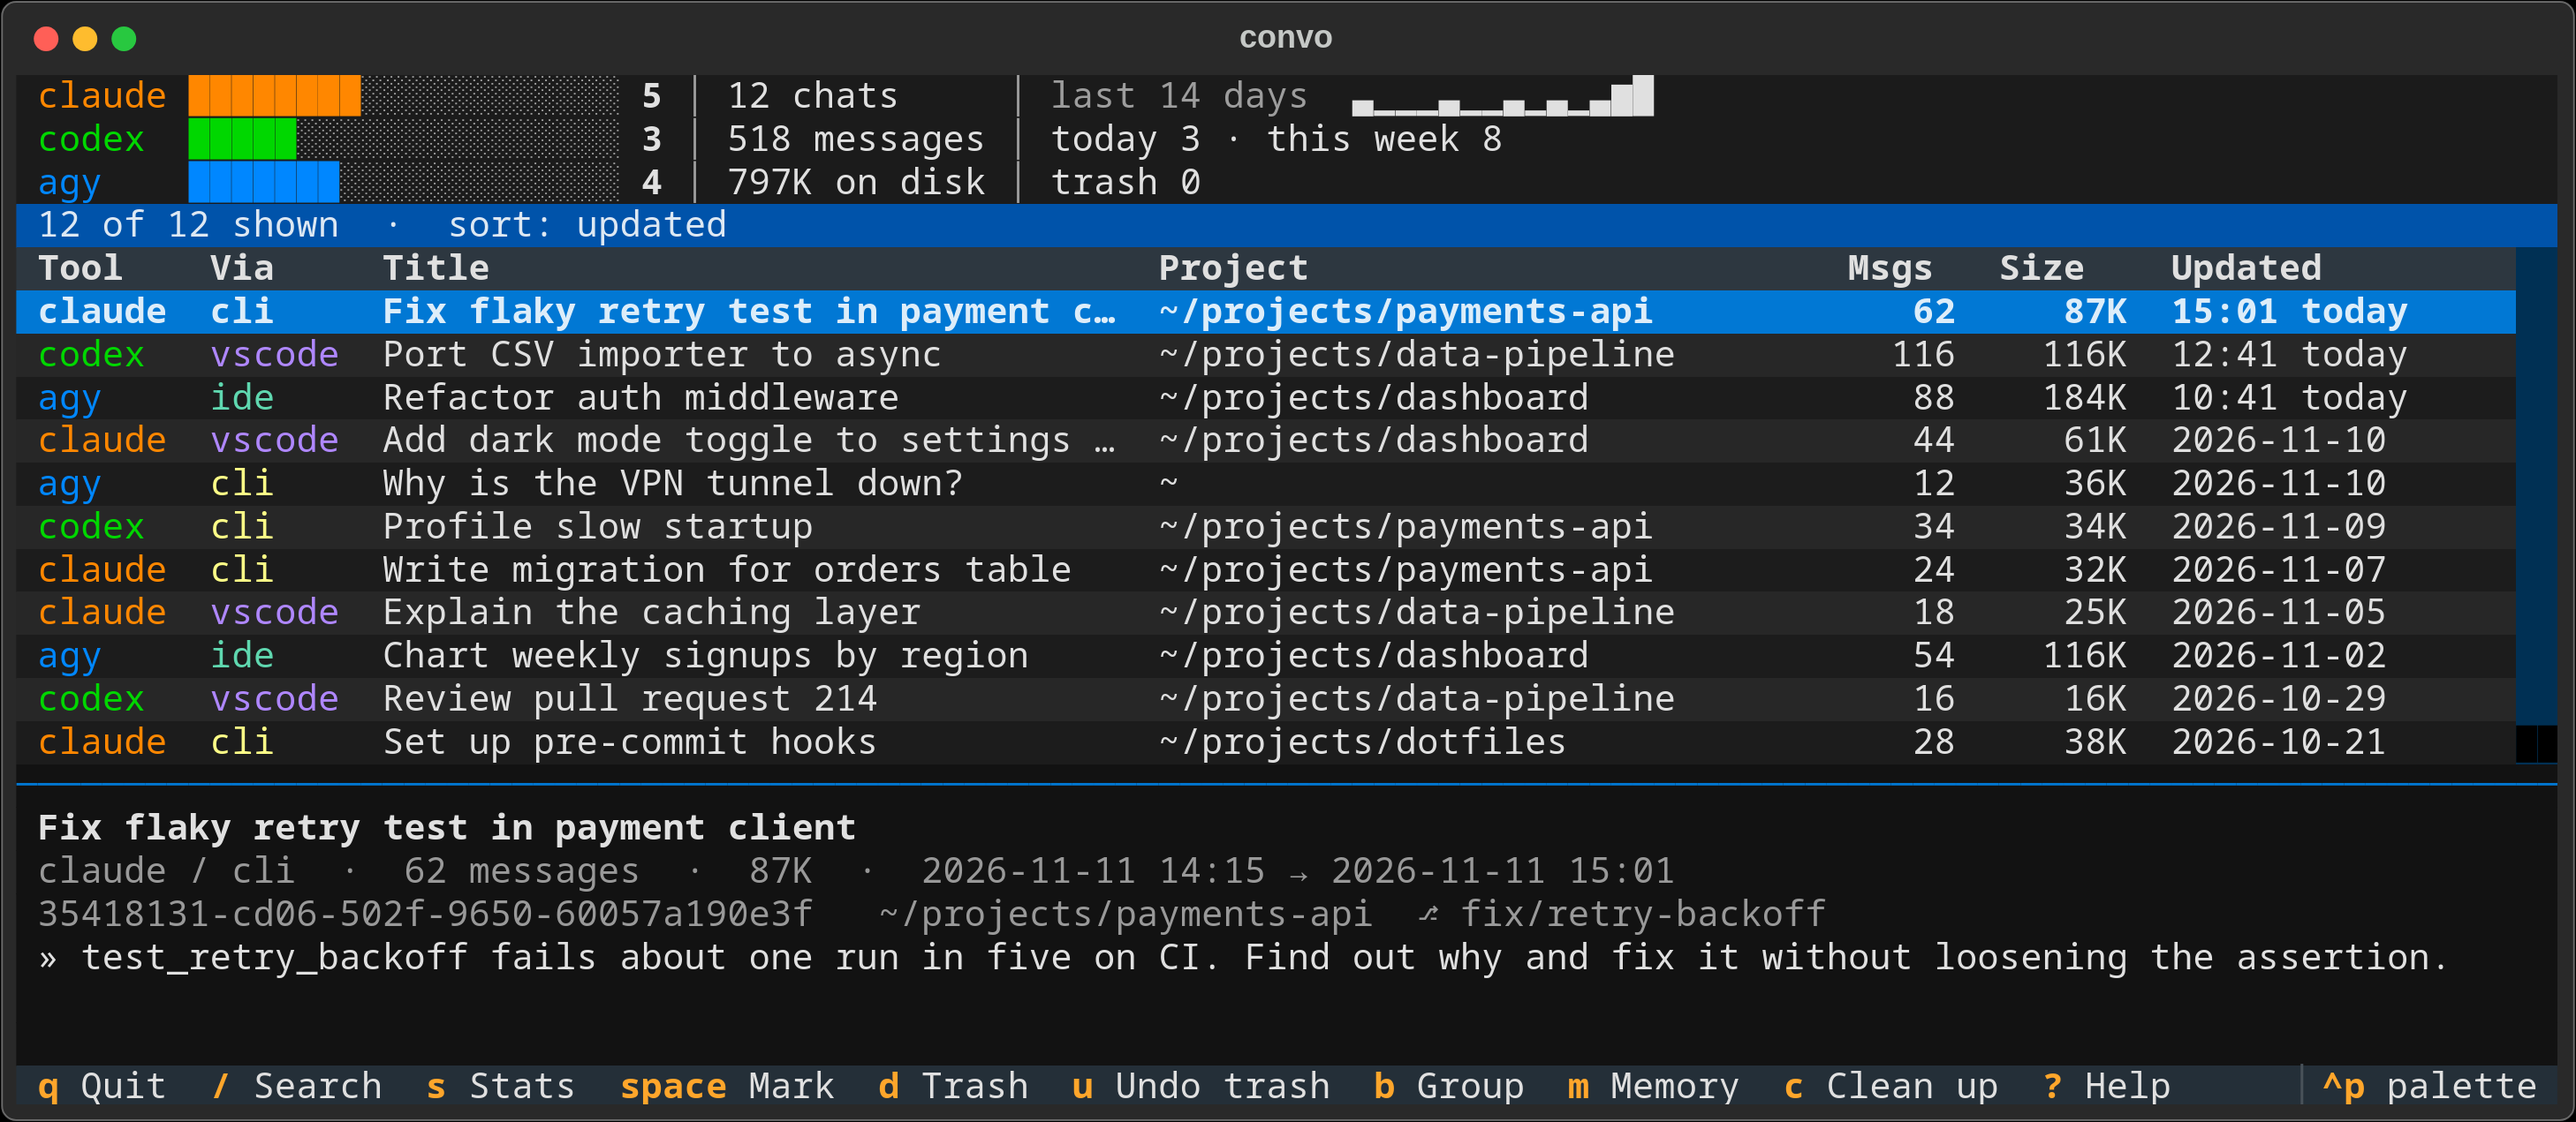
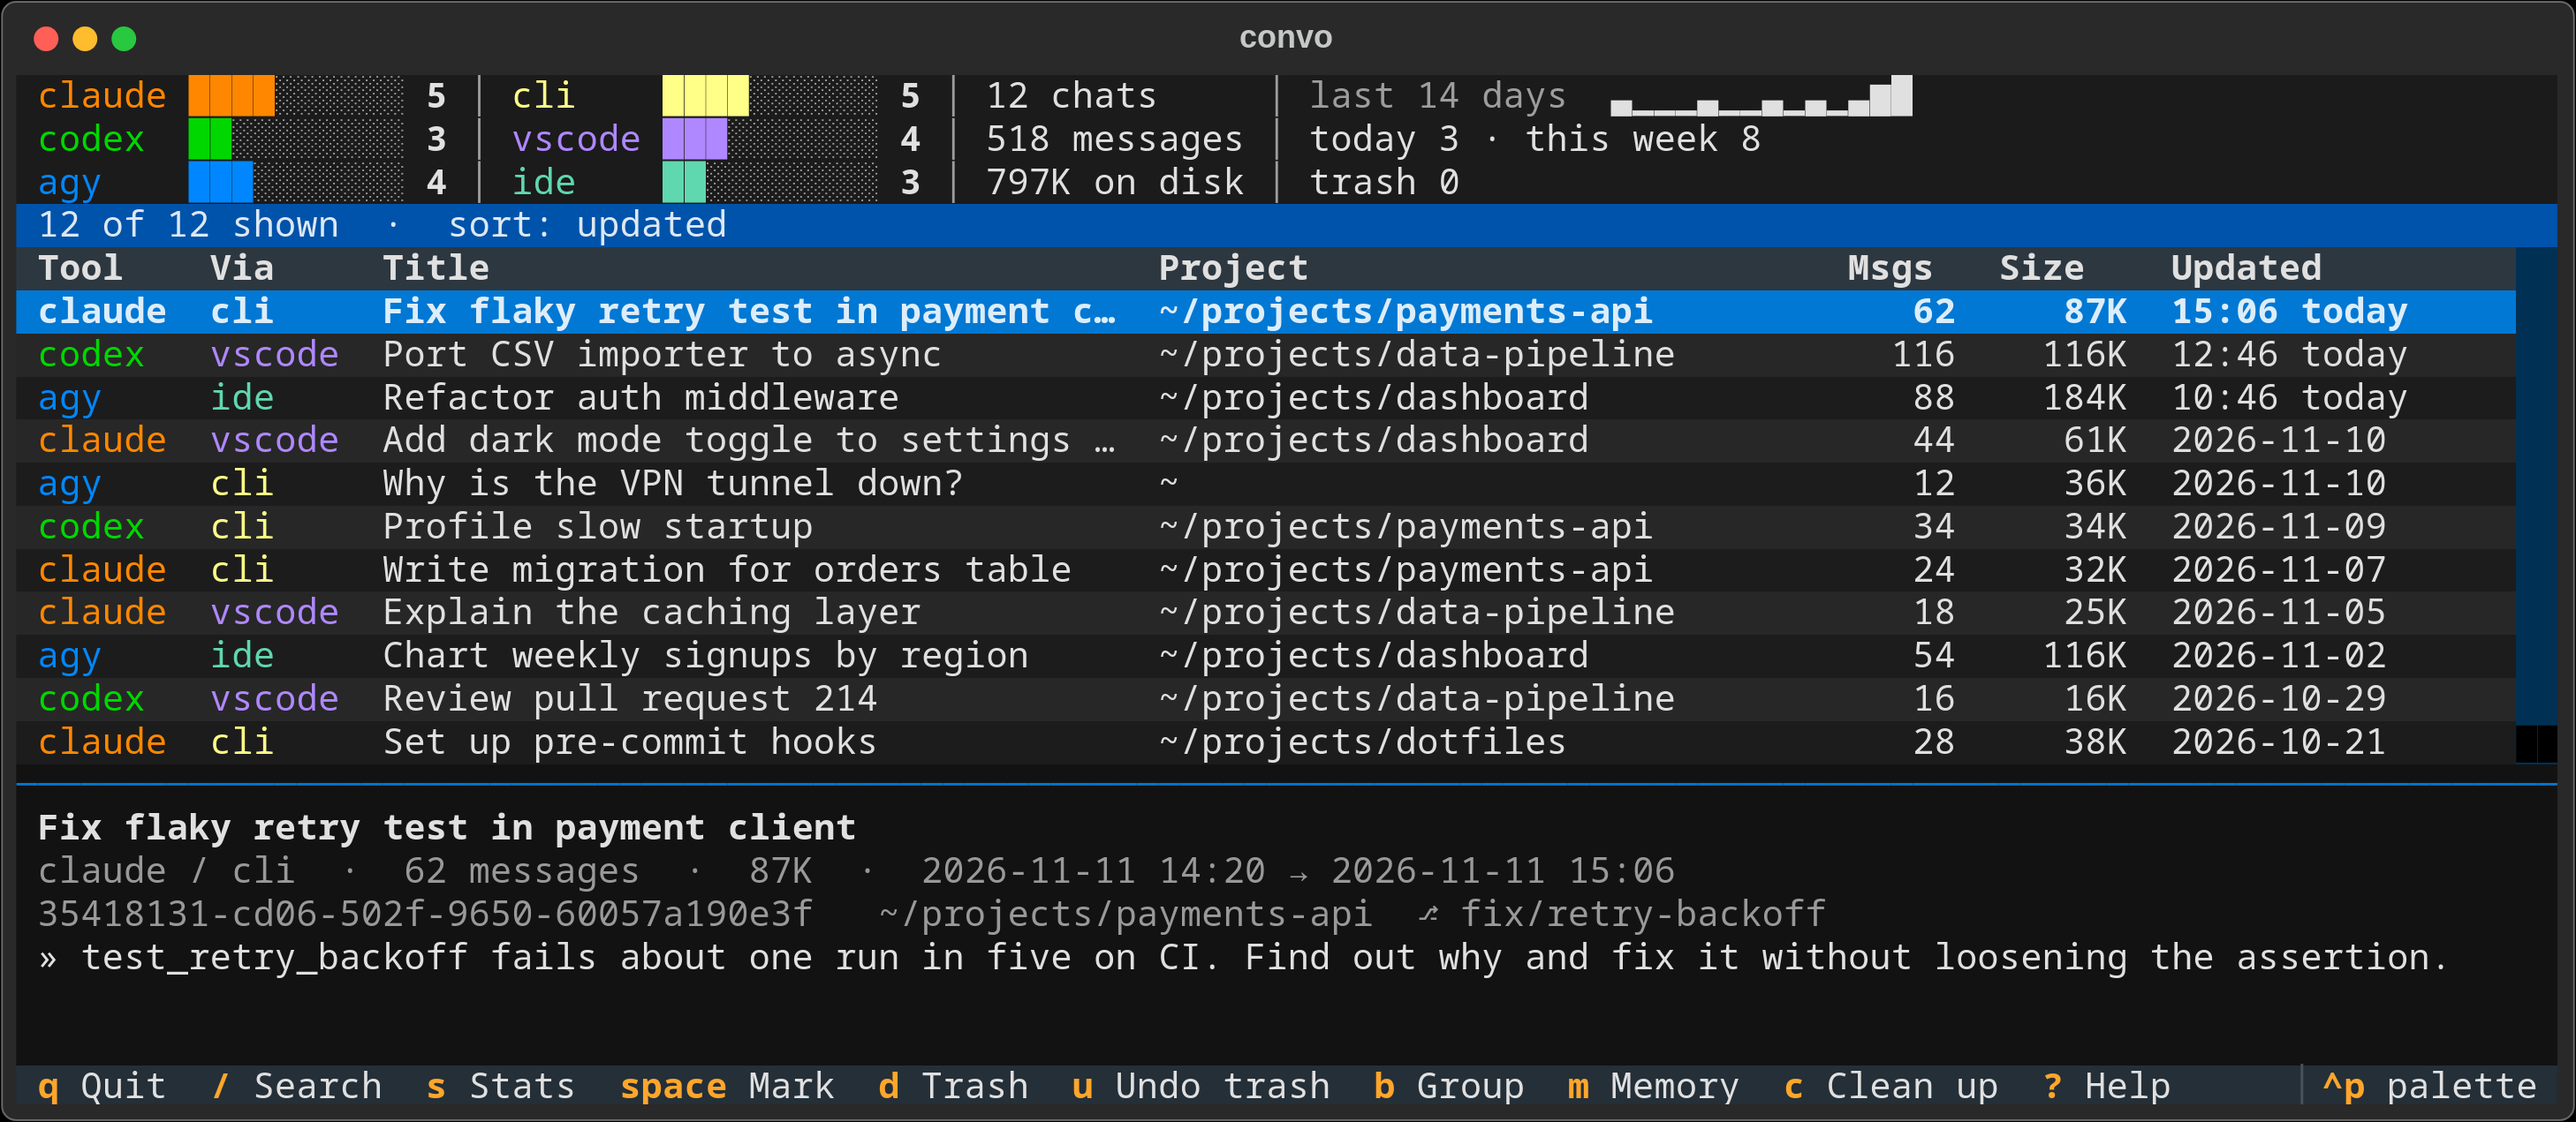
Stats panel: shorter tool bars and a block for cli, vscode and ide

Changed region(s): [[0.0936, 0.0614, 0.749, 0.1841], [0.4681, 0.7671, 0.4993, 0.7978]]

diff --git a/src/convo/stats.py b/src/convo/stats.py
@@ -11,7 +11,7 @@ from .common import Conv, human_size, short_path, when
 
 DAYS = ("Mon", "Tue", "Wed", "Thu", "Fri", "Sat", "Sun")
 SPARK = "▁▂▃▄▅▆▇█"
-BAR = 20
+BAR = 10
 
 
 def _bar(n: int, top: int, width: int = 28) -> str:
@@ -50,35 +50,54 @@ def report(convs: list[Conv], trashed: int = 0) -> str:
     return "\n".join(out)
 
 
-def panel(convs: list[Conv], styles: dict[str, str], trashed: int = 0, width: int = 100, now: float | None = None) -> Text:
-    """Three rows for the top of the list: share per tool, totals, and recent activity.
+def _bars(count: Counter, styles: dict[str, str], total: int) -> list[Text]:
+    names, digits = max(map(len, styles)), len(str(max(count.values(), default=0)))
+    rows = []
+    for name, style in styles.items():
+        n = count[name]
+        full = max(1 if n else 0, round(BAR * n / total)) if total else 0
+        rows.append(Text.assemble((f"{name:{names}} ", style), ("█" * full, style), ("░" * (BAR - full), "dim"),
+                                  (f" {n:>{digits}}", "bold")))
+    return rows
 
-    Narrower than 90 columns the activity column is left out; narrower than 58 it is one line of counts.
+
+def panel(convs: list[Conv], tools: dict[str, str], vias: dict[str, str], trashed: int = 0, width: int = 100,
+          now: float | None = None) -> Text:
+    """Three rows for the top of the list: share per tool, share per origin, totals, recent activity.
+
+    `tools` and `vias` map each name to its colour. Columns that do not fit are left out from the
+    right, and a very narrow screen gets one line of counts.
     """
     now = datetime.now().timestamp() if now is None else now
     total = len(convs)
-    count = Counter(c.tool for c in convs)
-    if width < 58:
-        line = Text(f"{total} chats")
-        for tool, style in styles.items():
-            line.append("  ").append(f"{tool} {count[tool]}", style)
-        return line.append(f"  trash {trashed}" if trashed else "")
-    nmsg = sum(c.nmsg for c in convs)
-    middle = [f"{total:,} chats", f"{nmsg:,} messages", f"{human_size(sum(c.size for c in convs))} on disk"]
+    by_tool = Counter(c.tool for c in convs)
     # each conversation counts once, on the day it was last active
     midnight = datetime.fromtimestamp(now).replace(hour=0, minute=0, second=0, microsecond=0).timestamp()
     ago = Counter(int((midnight - c.updated) // 86400) + 1 if c.updated < midnight else 0 for c in convs)
     days = [ago[d] for d in range(13, -1, -1)]
     top = max(days) or 1
     spark = "".join(SPARK[0] if not n else SPARK[max(1, round(n / top * 7))] for n in days)
-    right = [("last 14 days  ", spark), (f"today {ago[0]} · this week {sum(days[-7:])}", ""), (f"trash {trashed}", "")]
-    names, digits, mid = max(map(len, styles)), len(str(max(count.values(), default=0))), max(map(len, middle))
+    columns = [
+        _bars(by_tool, tools, total),
+        _bars(Counter(c.origin for c in convs), vias, total),
+        [Text(f"{total:,} chats"), Text(f"{sum(c.nmsg for c in convs):,} messages"),
+         Text(f"{human_size(sum(c.size for c in convs))} on disk")],
+        [Text.assemble(("last 14 days  ", "dim"), (spark, "bold")), Text(f"today {ago[0]} · this week {sum(days[-7:])}"),
+         Text(f"trash {trashed}")],
+    ]
+    widths = [max(cell.cell_len for cell in col) for col in columns]
+    fit = len(columns)
+    while fit and sum(widths[:fit]) + 3 * (fit - 1) > width:
+        fit -= 1
+    if fit < 3:
+        line = Text(f"{total} chats")
+        for tool, style in tools.items():
+            line.append("  ").append(f"{tool} {by_tool[tool]}", style)
+        return line.append(f"  trash {trashed}" if trashed else "")
     out = Text()
-    for i, (tool, style) in enumerate(styles.items()):
-        n = count[tool]
-        full = max(1 if n else 0, round(BAR * n / total)) if total else 0
-        out.append("\n" if i else "").append(f"{tool:{names}} ", style).append("█" * full, style).append("░" * (BAR - full), "dim")
-        out.append(f" {n:>{digits}}", "bold").append(" │ ", "dim").append(f"{middle[i]:{mid}}" if i < 3 else " " * mid)
-        if width >= 90 and i < 3:
-            out.append(" │ ", "dim").append(right[i][0], "dim" if right[i][1] else "").append(right[i][1], "bold")
+    for row in range(3):
+        out.append("\n" if row else "")
+        for i in range(fit):
+            cell = columns[i][row] if row < len(columns[i]) else Text()
+            out.append(" │ " if i else "", "dim").append_text(cell).append(" " * (widths[i] - cell.cell_len) if i < fit - 1 else "")
     return out

diff --git a/tests/test_more.py b/tests/test_more.py
@@ -287,19 +287,21 @@ def test_stats_panel_counts_everything_and_shrinks():
     from convo.common import Conv
 
     now = time.mktime((2026, 11, 11, 15, 0, 0, 0, 0, -1))
-    styles = {"claude": "red", "codex": "green", "agy": "blue"}
-    convs = [Conv(tool=t, id=f"{t}{i}", title="x", cwd="/p", origin="cli", created=now - d * 86400, updated=now - d * 86400,
+    tools, vias = {"claude": "red", "codex": "green", "agy": "blue"}, {"cli": "", "vscode": "", "ide": ""}
+    convs = [Conv(tool=t, id=f"{t}{i}", title="x", cwd="/p", origin=v, created=now - d * 86400, updated=now - d * 86400,
                   size=1024, nmsg=10, paths=[])
-             for i, (t, d) in enumerate([("claude", 0), ("claude", 0), ("claude", 3), ("codex", 9), ("agy", 40)])]
-    wide = stats.panel(convs, styles, 4, 120, now).plain.split("\n")
+             for i, (t, v, d) in enumerate([("claude", "cli", 0), ("claude", "vscode", 0), ("claude", "cli", 3),
+                                            ("codex", "vscode", 9), ("agy", "ide", 40)])]
+    wide = stats.panel(convs, tools, vias, 4, 120, now).plain.split("\n")
     assert len(wide) == 3
-    assert wide[0].startswith("claude ") and " 3 " in wide[0] and "5 chats" in wide[0] and "last 14 days" in wide[0]
-    assert "50 messages" in wide[1] and "today 2 · this week 3" in wide[1]
-    assert "on disk" in wide[2] and "trash 4" in wide[2]
-    medium = stats.panel(convs, styles, 4, 70, now).plain
-    assert "50 messages" in medium and "today" not in medium
-    assert stats.panel(convs, styles, 4, 40, now).plain == "5 chats  claude 3  codex 1  agy 1  trash 4"
-    assert stats.panel([], styles, 0, 120, now).plain.count("\n") == 2
+    assert wide[0].startswith("claude ") and " 3 " in wide[0] and "cli " in wide[0] and "5 chats" in wide[0]
+    assert "last 14 days" in wide[0]
+    assert "vscode" in wide[1] and "50 messages" in wide[1] and "today 2 · this week 3" in wide[1]
+    assert "ide " in wide[2] and "on disk" in wide[2] and "trash 4" in wide[2]
+    medium = stats.panel(convs, tools, vias, 4, 70, now).plain
+    assert "vscode" in medium and "50 messages" in medium and "today" not in medium
+    assert stats.panel(convs, tools, vias, 4, 40, now).plain == "5 chats  claude 3  codex 1  agy 1  trash 4"
+    assert stats.panel([], tools, vias, 0, 120, now).plain.count("\n") == 2
 
 
 def test_list_shows_the_stats_panel(stores):

diff --git a/src/convo/tui.py b/src/convo/tui.py
@@ -655,7 +655,7 @@ class ConvoApp(App):
         return out
 
     def fill(self, keep: str | None = None) -> None:
-        self.query_one("#stats", Static).update(stats.panel(self.all, TOOL_STYLE, len(trash.entries()), self.size.width - 2))
+        self.query_one("#stats", Static).update(stats.panel(self.all, TOOL_STYLE, VIA_STYLE, len(trash.entries()), self.size.width - 2))
         t = self.query_one("#table", DataTable)
         cur = self.row_item()
         # self.sel remembers the selection while a filter hides it, e.g. right after a rename

diff --git a/README.md b/README.md
@@ -42,7 +42,7 @@ Requires Python 3.11+. The command is `convo`.
 
 Run `convo` for the interactive view, or `convo some words` to open it already searched.
 
-The panel at the top counts everything convo found: conversations per tool, totals, and how many were last active on each of the past 14 days. It stays the same while you search; `s` gives fuller stats for what is listed.
+The panel at the top counts everything convo found: conversations per tool and per place they were started, totals, and how many were last active on each of the past 14 days. It stays the same while you search; `s` gives fuller stats for what is listed.
 
 | Key | In the list | Inside a conversation |
 |---|---|---|
